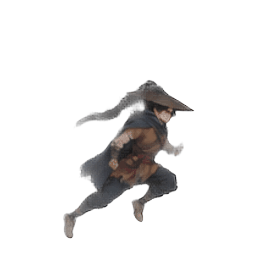
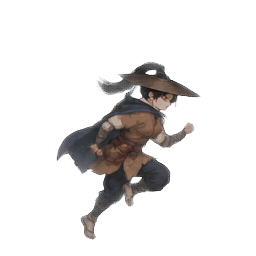
feat(class_pipeline): gen_row --facing, right run row fix (loop 0.584->0.886), reject side-view up/down row fixes

Changed region(s): [[0.2188, 0.2188, 0.7812, 0.9375]]

diff --git a/class_pipeline/scripts/gen_row.py b/class_pipeline/scripts/gen_row.py
@@ -41,6 +41,20 @@ IDENTITY = (
     "清晰轮廓 cel shading，面朝画面右侧三四分之三视角，同比例同脚底水平线。"
 )
 
+IDENTITY_TAIL = {
+    "right": "清晰轮廓 cel shading，面朝画面右侧三四分之三视角，同比例同脚底水平线。",
+    "up": "清晰轮廓 cel shading，背面视角面朝画面深处远离观众（看到背部，看不到脸），同比例同脚底水平线。",
+    "down": "清晰轮廓 cel shading，正面视角面朝观众（完整正脸），同比例同脚底水平线。",
+}
+
+# run 行逐格姿势（8 帧两步循环, 首尾闭合）
+POSES["run"] = (
+    "跑步循环逐格姿势：第1格右脚前触地左臂前摆身体明显前倾；第2格重心前压右腿蹬地双足离地腾空；"
+    "第3格腾空前滑左腿前抬右臂后摆；第4格左脚前触地右臂前摆左臂后摆；"
+    "第5格重心前压左腿蹬地腾空；第6格腾空前滑右腿前抬；"
+    "第7格右脚前触地姿势回到与第1格一致；第8格与第1格完全相同闭合循环"
+)
+
 _PROMPT_BG = {
     "magenta": (
         "格子上下留纯品红 #ff00ff 空白，背景全为纯品红 #ff00ff，"
@@ -54,12 +68,13 @@ _PROMPT_BG = {
 }
 
 
-def build_prompt(motion: str, poses: str, sheet: Path, transparent: bool) -> str:
+def build_prompt(motion: str, poses: str, sheet: Path, transparent: bool, facing: str) -> str:
     bg = _PROMPT_BG["transparent" if transparent else "magenta"]
     return (
         f"一张单行 8 格横条 sprite 动作表（8列×1行），水平居中排列在画面中部，"
         f"每格一个全身角色，{bg}"
         f"角色与画风严格同第一张参考图（全动作总表）中{motion}行的风格与配色：{IDENTITY}"
+        f"{IDENTITY_TAIL[facing]}"
         f"动作={poses}。第二张参考图是该动作的母版姿势参考。"
         f"（当前 sheet: {sheet.name}）"
     )
@@ -68,34 +83,46 @@ def build_prompt(motion: str, poses: str, sheet: Path, transparent: bool) -> str
 def main() -> int:
     ap = argparse.ArgumentParser()
     ap.add_argument("--class-dir", required=True, type=Path)
-    ap.add_argument("--motion", required=True, help="动作名, 如 attack2")
+    ap.add_argument("--motion", required=True, help="动作名, 如 attack2/run")
     ap.add_argument("--poses", help="8 格逐格姿势描述; 缺省用内置 POSES 表或动作整段描述")
     ap.add_argument("--transparent", action="store_true",
                     help="透明直出(真 RGBA, 免抠图); 自动匹配透明主 sheet, "
-                         "输出命名 <motion>_row_fix_transparent_v<n>.png")
-    ap.add_argument("--sheet", type=Path, help="被修的大 sheet; 默认 sheets/ 下最新同底型 all_in_one*")
-    ap.add_argument("--attack-master", type=Path, help="姿势参考; 默认 masters/attack_master.png")
-    ap.add_argument("--version", type=int, default=1, help="输出命名 <motion>_row_fix[_transparent]_v<n>.png")
+                         "输出命名 <motion>_row_fix_transparent[_<facing>]_v<n>.png")
+    ap.add_argument("--facing", choices=["right", "up", "down"], default="right",
+                    help="朝向(补 up/down 方向 sheet 时必传); 默认 right")
+    ap.add_argument("--sheet", type=Path, help="被修的大 sheet; 默认 sheets/ 下最新同底型同朝向 all_in_one*")
+    ap.add_argument("--attack-master", type=Path, help="姿势参考; 默认 masters/attack_master[_<facing>].png")
+    ap.add_argument("--version", type=int, default=1, help="输出命名 <motion>_row_fix[_transparent][_facing]_v<n>.png")
     args = ap.parse_args()
 
     cd = args.class_dir
+    facing = args.facing
     if args.sheet:
         sheet = args.sheet
-    else:
-        pattern = "sheets/all_in_one_transparent_v*.png" if args.transparent else "sheets/all_in_one_v*.png"
+    elif args.transparent:
+        pattern = ("sheets/all_in_one_transparent_v*.png" if facing == "right"
+                   else f"sheets/all_in_one_transparent_{facing}_v*.png")
         cands = list(cd.glob(pattern))
         if not cands:
             raise SystemExit(f"找不到主 sheet({pattern}); 可用 --sheet 指定")
         sheet = max(cands, key=lambda p: p.stat().st_mtime)
-    attack_master = args.attack_master or cd / "masters" / "attack_master.png"
+    else:
+        cands = list(cd.glob("sheets/all_in_one_v*.png"))
+        if not cands:
+            raise SystemExit("找不到品红主 sheet; 可用 --sheet 指定")
+        sheet = max(cands, key=lambda p: p.stat().st_mtime)
+    master_name = "attack_master.png" if facing == "right" else f"attack_master_{facing}.png"
+    attack_master = args.attack_master or cd / "masters" / master_name
     for ref in (sheet, attack_master):
         if not ref.exists():
             raise SystemExit(f"缺少参考图: {ref}")
 
     poses = args.poses or POSES.get(args.motion, f"{args.motion} 完整 8 格动作循环，首尾闭合")
     tag = "row_fix_transparent" if args.transparent else "row_fix"
+    if args.transparent and facing != "right":
+        tag += f"_{facing}"
     out = cd / "sheets" / f"{args.motion}_{tag}_v{args.version}.png"
-    generate_img2img(build_prompt(args.motion, poses, sheet, args.transparent),
+    generate_img2img(build_prompt(args.motion, poses, sheet, args.transparent, facing),
                      [sheet, attack_master], out, size=SIZE, transparent=args.transparent)
     print(f"[done] {out}")
     if args.transparent:

diff --git a/class_pipeline/scripts/build_transparent_assets.py b/class_pipeline/scripts/build_transparent_assets.py
@@ -43,16 +43,18 @@ def clean_cell(cell: Image.Image) -> Image.Image:
     return Image.fromarray(arr, "RGBA")
 
 
-def apply_row_fixes(cd: Path, rows: dict, cw: int) -> dict:
-    """补行条整行替换(取最新 <motion>_row_fix_transparent_v*.png)。
+def apply_row_fixes(cd: Path, rows: dict, cw: int, direction: str = "right") -> dict:
+    """补行条整行替换(取最新 <motion>_row_fix_transparent[_<direction>]_v*.png)。
 
     透明原生做法: alpha 内容带裁上下空白 → 等比缩放到主 sheet 宽度 → 切 8 格。
     替换后帧高可与主 sheet 不同, 脚底对齐统一交给 align_frames, 无需手工补齐。
     (对应品红链 build_class_assets.load_sheet_rows 的 row_fix 逻辑, 透明版免背景估计)
+    方向匹配: right 补行条无后缀, up/down 带方向后缀(与 gen_row --facing 命名一致)。
     """
     for motion in list(rows):
-        fixes = sorted(cd.glob(f"sheets/{motion}_row_fix_transparent_v*.png"),
-                       key=lambda p: p.stat().st_mtime)
+        pattern = (f"sheets/{motion}_row_fix_transparent_v*.png" if direction == "right"
+                   else f"sheets/{motion}_row_fix_transparent_{direction}_v*.png")
+        fixes = sorted(cd.glob(pattern), key=lambda p: p.stat().st_mtime)
         if not fixes:
             continue
         fix = Image.open(fixes[-1]).convert("RGBA")
@@ -112,7 +114,7 @@ def main() -> int:
     for r, motion in enumerate(ROW_LAYOUT):
         rows[motion] = [clean_cell(img.crop((c * cw, r * ch, (c + 1) * cw, (r + 1) * ch)))
                         for c in range(COLS)]
-    rows = apply_row_fixes(cd, rows, cw)
+    rows = apply_row_fixes(cd, rows, cw, direction)
 
     # 行条拼图(透明底贴深灰底便于目检; 补行替换后帧高可不同, 统一缩到主行高)
     preview = Image.new("RGB", (COLS * cw, len(ROW_LAYOUT) * (ch + 4)), (24, 26, 30))

diff --git a/class_pipeline/README.md b/class_pipeline/README.md
@@ -308,9 +308,12 @@ v2 留档为抽卡对照。品红产物（all_in_one_v1.png / attack2_row_fix.pn
 
 ## 11. TODO（接手从这里开始）
 
-1. **run 行循环闭合**（可选优化）: 透明 reroll 已从 0.557 改善到 0.681（契约口径
-   0.584）; `gen_row.py --transparent` 已就绪, 需要时直接出 run 透明补行条
-   （build_transparent_assets 会自动整行替换）。
+1. **run 行循环闭合**: right 已补行转正（2026-11-27, `run_row_fix_transparent_v1`,
+   契约口径 0.584 → **0.886**, 播放验证通过）。up/down 补行 ×2 抽卡均废
+   （侧视图跑姿是模型强先验: up 画成侧向跑朝向混乱, down 画成侧向静止循环,
+   QC 数字 1.0 是死帧假象——**补行条必须目检, 不能只看 QC 数字**）,
+   原 sheet 的 up/down run（0.665/0.623, 方向正确）保持现役;
+   后续优化思路: 逐格姿势描述强化"背对/面对观众跑向画面深处"。
 2. Step5 播放验证已完成（2026-11-27, 见 §9.1; 顺带修复 halo 缺陷, 见 §8.6）。
 3. 放大策略拍板: **特写场景用大格子重生成（4 列×8 行 → cell 384px, 代价是动作分
    多张）, 禁止放大 192 原生图**; 日常走场维持原生 192（屏显 ~110px, 1.4× 余量够用）。
